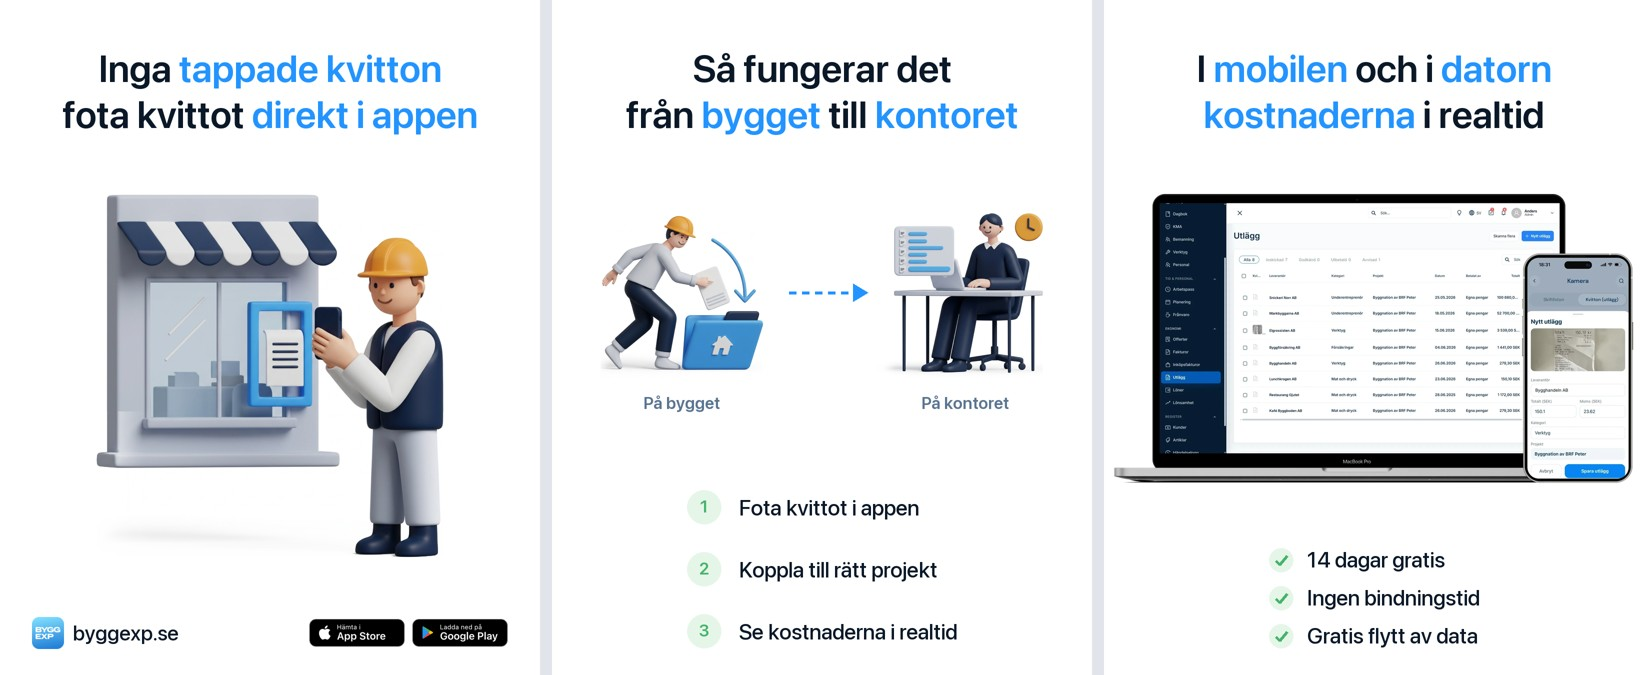
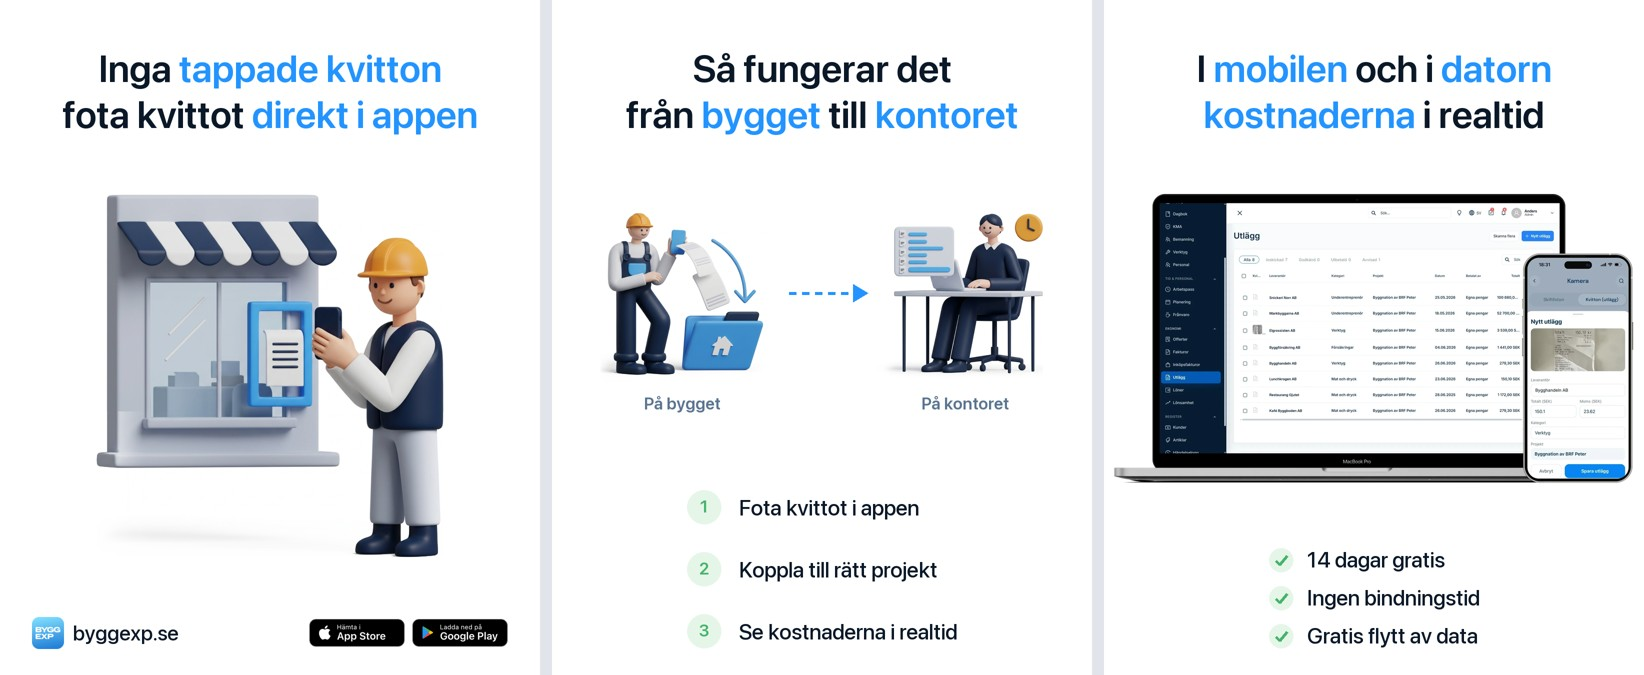
feat(smm): post 10 uses the phone → folder receipt 3D
Claude-Session: https://claude.ai/code/session_015ffAXEftTHPL4eNP1AivUn

diff --git a/design-assets/social/posts/make_3d.py b/design-assets/social/posts/make_3d.py
@@ -287,7 +287,7 @@ FLOW = {  # slide 2: left 3D → right 3D, with labels; direction follows the fe
     "s07-offerter": ("offerter-1.png", "offerter-2.png", "På kontoret", "Hos kunden"),
     "s08-fakturor": ("tid-3.png", "fakturor-3.png", "På kontoret", "Hos kunden"),
     "s09-ekonomi": ("tid-2.png", "ekonomi-3.png", "På bygget", "På kontoret"),
-    "s10-utlagg": ("utlagg-2.png", "utlagg-3.png", "På bygget", "På kontoret"),
+    "s10-utlagg": ("utlagg-4.png", "utlagg-3.png", "På bygget", "På kontoret"),  # receipt from the phone into the folder
     "s11-loner": ("tid-2.png", "tid-3.png", "På bygget", "På kontoret"),
 }
 
